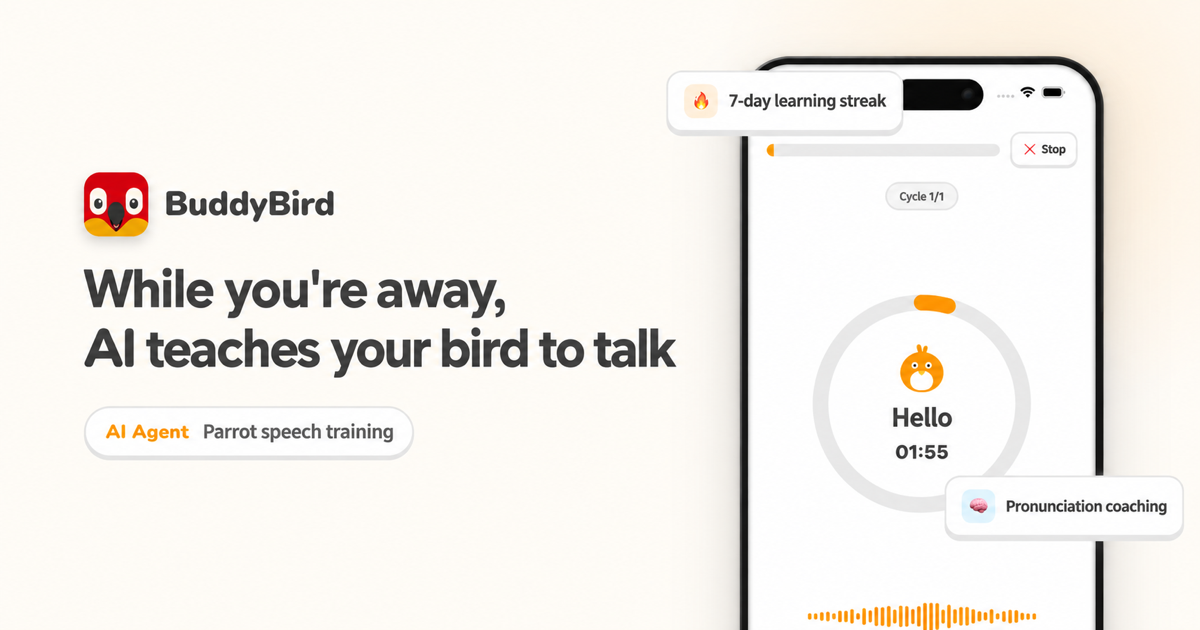
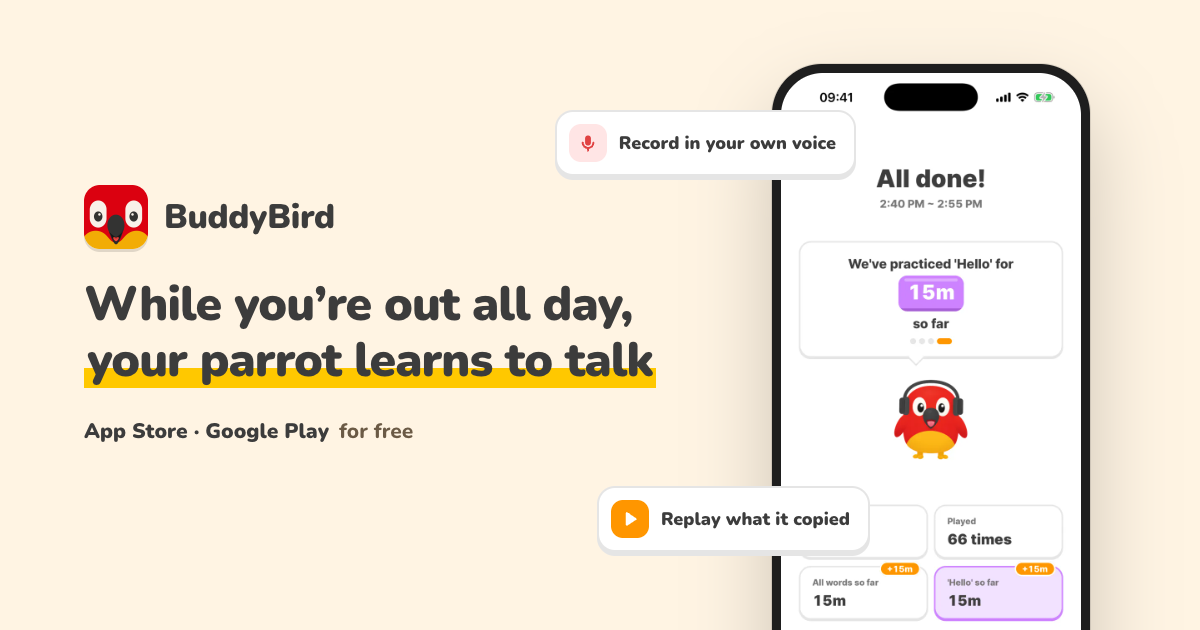
feat(seo): 공유 미리보기 이미지와 문구를 새 랜딩에 맞춘다
미리보기에 지금 앱에 없는 '발음 교정' 배지와 v1 학습 화면이 남아 있었다.
og-card 를 새 히어로 문구와 v2.2.0 화면으로 다시 만들고, ?lang=en 으로
영어 카드도 같은 소스에서 렌더하게 한다. OG·Twitter 제목과 설명도 맞춘다.

diff --git a/tools/og-card.html b/tools/og-card.html
@@ -1,93 +1,80 @@
 <!DOCTYPE html>
 <!--
-  og-card.html — buddybird.xyz 링크 공유 미리보기(og-image.png) 생성용 소스.
-  헤드리스 Chrome로 1200×630 렌더 → og-image.png. 디자인 수정 후 재렌더하면 됨.
+  og-card.html — buddybird.xyz 링크 공유 미리보기(og-image.png / og-image-en.png) 생성용 소스.
+  헤드리스 Chrome로 1200×630 렌더 → 한국어는 그대로, 영어는 ?lang=en 으로 렌더.
+    chrome --headless=new --window-size=1200,630 --virtual-time-budget=5000 \
+      --screenshot=assets/og-image.png    "http://localhost:8910/tools/og-card.html"
+    chrome --headless=new --window-size=1200,630 --virtual-time-budget=5000 \
+      --screenshot=assets/og-image-en.png "http://localhost:8910/tools/og-card.html?lang=en"
   (사이트 본문이 아니라 OG 이미지 빌드용 파일입니다.)
 -->
 <html lang="ko">
 <head>
 <meta charset="utf-8">
+<title>BuddyBird OG card</title>
 <link rel="preconnect" href="https://fonts.googleapis.com">
 <link rel="preconnect" href="https://fonts.gstatic.com" crossorigin>
-<link href="https://fonts.googleapis.com/css2?family=Nunito:wght@400;600;700;800;900&display=swap" rel="stylesheet">
+<link href="https://fonts.googleapis.com/css2?family=Nunito:wght@700;800;900&display=swap" rel="stylesheet">
 <link rel="stylesheet" href="https://cdn.jsdelivr.net/gh/orioncactus/pretendard@v1.3.9/dist/web/static/pretendard.min.css">
 <style>
   html, body { margin: 0; padding: 0; }
   body {
     width: 1200px; height: 630px; overflow: hidden; position: relative;
-    background: #FFFBF5;
+    background: #FFF4E3;
     font-family: 'Nunito', 'Pretendard Variable', Pretendard, -apple-system, system-ui, sans-serif;
     color: #3C3C3C; -webkit-font-smoothing: antialiased; text-rendering: optimizeLegibility;
+    word-break: keep-all;
   }
-  /* 우측 상단 은은한 브랜드 글로우 */
-  .glow { position: absolute; top: -180px; right: -120px; width: 620px; height: 620px;
-          border-radius: 50%; background: radial-gradient(circle, rgba(255,150,0,0.14) 0%, rgba(255,150,0,0) 70%); }
-  .wrap { position: relative; z-index: 1; display: flex; align-items: center; height: 100%; }
-  .left { padding: 0 0 0 84px; width: 640px; display: flex; flex-direction: column; gap: 26px; }
+  .left { position: absolute; left: 84px; top: 0; bottom: 0; width: 620px; display: flex; flex-direction: column; justify-content: center; gap: 28px; }
   .brand { display: flex; align-items: center; gap: 16px; }
-  .logo { width: 64px; height: 64px; border-radius: 16px; display: block;
-          box-shadow: 0 6px 14px rgba(0,0,0,0.18); }
+  .logo { width: 64px; height: 64px; border-radius: 16px; display: block; box-shadow: 0 3px 0 rgba(0,0,0,0.12); }
   .wordmark { font-weight: 900; font-size: 34px; letter-spacing: -0.01em; }
-  h1 { margin: 0; font-weight: 900; font-size: 52px; line-height: 1.14; letter-spacing: -0.02em; }
-  .chip { align-self: flex-start; display: inline-flex; align-items: center; gap: 9px;
-          background: #fff; border: 2px solid #E5E5E5; border-radius: 9999px; padding: 11px 20px;
-          font-weight: 800; font-size: 19px; color: #5A5A5A; box-shadow: 0 3px 0 #E5E5E5; }
-  .chip b { color: #FF9600; font-weight: 900; }
+  h1 { margin: 0; font-weight: 900; font-size: 58px; line-height: 1.16; letter-spacing: -0.02em; }
+  h1 .hl { background: linear-gradient(transparent 62%, #FFC800 62%, #FFC800 92%, transparent 92%); padding: 0 .06em; }
+  html[lang="en"] h1 { font-size: 48px; }
+  .free { display: inline-flex; align-items: center; gap: 10px; font-weight: 800; font-size: 21px; color: #6B5A45; }
+  .free b { color: #3C3C3C; }
 
-  /* 우측 폰 목업 (index.html hero 목업 스타일 재사용) */
-  .phone { position: absolute; right: 96px; top: 56px; z-index: 1; width: 360px; padding: 2px;
-           border-radius: 50px; background: linear-gradient(135deg,#888 0%,#333 35%,#000 100%);
-           box-shadow: 0 1px 2px rgba(0,0,0,0.15),0 6px 12px 2px rgba(0,0,0,0.10),
-                       0 16px 32px 10px rgba(0,0,0,0.06),0 32px 64px 24px rgba(0,0,0,0.05); }
-  .phone .body { padding: 6px; border-radius: 48px; background: #181818; }
-  .phone .screen { position: relative; border-radius: 42px; overflow: hidden; line-height: 0; }
-  .phone img { display: block; width: 100%; height: auto; }
-  .phone .ring { position: absolute; inset: 0; border-radius: 42px; pointer-events: none; z-index: 3;
-                 box-shadow: inset 0 0 4px 1px rgba(0,0,0,0.40); }
-  .phone .shine { position: absolute; inset: 0; border-radius: 42px; pointer-events: none; z-index: 4;
-                  background: linear-gradient(125deg,rgba(255,255,255,0.18) 0%,rgba(255,255,255,0.04) 12%,rgba(255,255,255,0) 28%); }
-  .phone .island { position: absolute; top: 15px; left: 50%; transform: translateX(-50%);
-                   width: 115px; height: 31px; border-radius: 999px; background: #0a0a0a; z-index: 6;
-                   display: flex; align-items: center; justify-content: flex-end; padding-right: 9px; }
-  .phone .lens { width: 13px; height: 13px; border-radius: 50%;
-                 background: radial-gradient(circle at 38% 35%,#26313a 0%,#070b0e 70%); }
+  /* the phone: the app's own capture already carries its status bar and island */
+  .phone { position: absolute; right: 110px; top: 64px; width: 300px; padding: 9px; border-radius: 50px;
+           background: #1E1E1E; box-shadow: 0 40px 80px rgba(0,0,0,0.20), 0 0 0 1px rgba(0,0,0,0.10); }
+  .phone img { display: block; width: 100%; height: auto; border-radius: 42px; }
 
-  /* 떠 있는 배지 */
-  .badge { position: absolute; z-index: 2; background: #fff; border: 2px solid #E5E5E5;
-           border-radius: 16px; box-shadow: 0 4px 0 #E5E5E5; padding: 12px 16px;
-           display: flex; align-items: center; gap: 10px; font-weight: 900; font-size: 17px; }
-  .badge .ic { width: 34px; height: 34px; border-radius: 10px; display: flex; align-items: center;
-               justify-content: center; font-size: 18px; }
-  .badge.b1 { top: 70px; right: 360px; }
-  .badge.b1 .ic { background: rgba(255,150,0,0.14); }
-  .badge.b2 { bottom: 92px; right: 76px; }
-  .badge.b2 .ic { background: rgba(28,176,246,0.14); }
+  /* floating notes: true product facts only */
+  .note { position: absolute; z-index: 2; display: flex; align-items: center; gap: 12px; background: #fff;
+          border: 2px solid #E5E5E5; border-radius: 18px; box-shadow: 0 4px 0 #E5E5E5; padding: 12px 18px 12px 12px;
+          font-weight: 900; font-size: 18px; }
+  .note .ic { width: 38px; height: 38px; border-radius: 12px; display: grid; place-items: center; }
+  .note svg { width: 20px; height: 20px; }
+  .n1 { top: 110px; right: 344px; }
+  .n1 .ic { background: #FFE5E5; color: #E04343; }
+  .n2 { top: 486px; right: 330px; }
+  .n2 .ic { background: #FF9600; color: #fff; }
 </style>
 </head>
 <body>
-  <div class="glow"></div>
-  <div class="wrap">
-    <div class="left">
-      <div class="brand">
-        <img class="logo" src="../assets/icons/app-icon.png" alt="BuddyBird">
-        <span class="wordmark">BuddyBird</span>
-      </div>
-      <h1>집을 비운 사이에도,<br>AI가 대신 말을 가르칩니다</h1>
-      <span class="chip"><b>AI Agent</b>&nbsp;앵무새 단어 학습 서비스</span>
+  <div class="left">
+    <div class="brand">
+      <img class="logo" src="../assets/icons/app-icon.png" alt="BuddyBird">
+      <span class="wordmark">BuddyBird</span>
     </div>
+    <h1 id="h">보호자가 집을 비운 하루,<br><span class="hl">앵무새는 말을 배웁니다</span></h1>
+    <span class="free" id="f"><b>App Store · Google Play</b>for free</span>
   </div>
 
-  <div class="badge b1"><span class="ic">🔥</span>학습 7일 연속</div>
-  <div class="phone">
-    <div class="body">
-      <div class="screen">
-        <img src="../assets/images/ko/app-learning.png" alt="BuddyBird 앱 화면" />
-        <div class="ring"></div>
-        <div class="shine"></div>
-        <div class="island"><div class="lens"></div></div>
-      </div>
-    </div>
-  </div>
-  <div class="badge b2"><span class="ic">🧠</span>발음 교정</div>
+  <div class="note n1"><span class="ic"><svg viewBox="0 0 24 24" aria-hidden="true"><rect x="8.5" y="3" width="7" height="12" rx="3.5" fill="currentColor"/><path d="M5.5 11.5a6.5 6.5 0 0 0 13 0M12 18v3" fill="none" stroke="currentColor" stroke-width="2.4" stroke-linecap="round"/></svg></span><span id="t1">보호자 목소리로 녹음</span></div>
+  <div class="phone"><img id="shot" src="../assets/images/ko/screen-summary.webp" alt=""></div>
+  <div class="note n2"><span class="ic"><svg viewBox="0 0 24 24" aria-hidden="true"><path fill="currentColor" d="M7 4.8v14.4c0 .9 1 1.4 1.7.9l10.6-7.2c.6-.4.6-1.4 0-1.8L8.7 3.9C8 3.4 7 3.9 7 4.8z"/></svg></span><span id="t2">따라 한 소리 다시 듣기</span></div>
+
+<script>
+  // ?lang=en renders the English card from the same layout
+  if (new URLSearchParams(location.search).get('lang') === 'en') {
+    document.documentElement.lang = 'en';
+    document.getElementById('h').innerHTML = 'While you’re out all day,<br><span class="hl">your parrot learns to talk</span>';
+    document.getElementById('t1').textContent = 'Record in your own voice';
+    document.getElementById('t2').textContent = 'Replay what it copied';
+    document.getElementById('shot').src = '../assets/images/en/screen-summary.webp';
+  }
+</script>
 </body>
 </html>

diff --git a/ko/index.html b/ko/index.html
@@ -22,19 +22,19 @@
 <meta property="og:site_name" content="BuddyBird">
 <meta property="og:locale" content="ko_KR">
 <meta property="og:url" content="https://buddybird.xyz/ko/">
-<meta property="og:title" content="BuddyBird — 집을 비운 사이에도, AI가 대신 말을 가르칩니다">
-<meta property="og:description" content="앵무새의 단어 학습을 집사 대신 이어가는 AI 학습 서비스. App Store와 Google Play에서 만나보세요.">
+<meta property="og:title" content="BuddyBird — 보호자가 집을 비운 하루, 앵무새는 말을 배웁니다">
+<meta property="og:description" content="보호자 목소리로 단어를 들려주고, 앵무새가 따라 한 소리를 리포트로 다시 들어요. App Store와 Google Play에서 무료로 받으세요.">
 <meta property="og:image" content="https://buddybird.xyz/assets/og-image.png">
 <meta property="og:image:secure_url" content="https://buddybird.xyz/assets/og-image.png">
 <meta property="og:image:type" content="image/png">
 <meta property="og:image:width" content="1200">
 <meta property="og:image:height" content="630">
-<meta property="og:image:alt" content="BuddyBird — 앵무새 단어 학습 AI 서비스">
+<meta property="og:image:alt" content="BuddyBird — 보호자가 집을 비운 하루, 앵무새는 말을 배웁니다. 앱의 학습 완료 화면">
 
 <!-- Twitter Card -->
 <meta name="twitter:card" content="summary_large_image">
-<meta name="twitter:title" content="BuddyBird — 집을 비운 사이에도, AI가 대신 말을 가르칩니다">
-<meta name="twitter:description" content="앵무새의 단어 학습을 집사 대신 이어가는 AI 학습 서비스.">
+<meta name="twitter:title" content="BuddyBird — 보호자가 집을 비운 하루, 앵무새는 말을 배웁니다">
+<meta name="twitter:description" content="보호자 목소리로 단어를 들려주고, 앵무새가 따라 한 소리를 리포트로 다시 들어요.">
 <meta name="twitter:image" content="https://buddybird.xyz/assets/og-image.png">
 
 <!-- 구조화 데이터 (schema.org JSON-LD) -->

diff --git a/en/index.html b/en/index.html
@@ -23,19 +23,19 @@
 <meta property="og:locale" content="en_US">
 <meta property="og:locale:alternate" content="ko_KR">
 <meta property="og:url" content="https://buddybird.xyz/en/">
-<meta property="og:title" content="BuddyBird: AI teaches your parrot to talk while you're away">
-<meta property="og:description" content="An AI service that keeps teaching your parrot new words while you're away. Available on the App Store and Google Play.">
+<meta property="og:title" content="BuddyBird: While you’re out all day, your parrot learns to talk">
+<meta property="og:description" content="BuddyBird plays words in your own voice and lets you replay the sounds your parrot copied in the report. Free on the App Store and Google Play.">
 <meta property="og:image" content="https://buddybird.xyz/assets/og-image-en.png">
 <meta property="og:image:secure_url" content="https://buddybird.xyz/assets/og-image-en.png">
 <meta property="og:image:type" content="image/png">
 <meta property="og:image:width" content="1200">
 <meta property="og:image:height" content="630">
-<meta property="og:image:alt" content="BuddyBird: AI that teaches parrots new words">
+<meta property="og:image:alt" content="BuddyBird: While you’re out all day, your parrot learns to talk. The app’s session complete screen">
 
 <!-- Twitter Card -->
 <meta name="twitter:card" content="summary_large_image">
-<meta name="twitter:title" content="BuddyBird: AI teaches your parrot to talk while you're away">
-<meta name="twitter:description" content="An AI service that keeps teaching your parrot new words while you're away.">
+<meta name="twitter:title" content="BuddyBird: While you’re out all day, your parrot learns to talk">
+<meta name="twitter:description" content="BuddyBird plays words in your own voice and lets you replay the sounds your parrot copied.">
 <meta name="twitter:image" content="https://buddybird.xyz/assets/og-image-en.png">
 
 <!-- 구조화 데이터 (schema.org JSON-LD) -->
